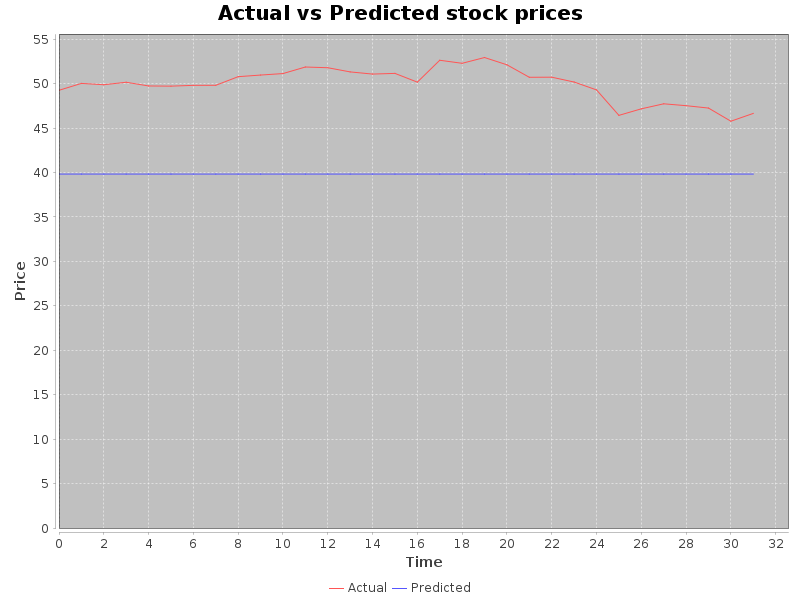
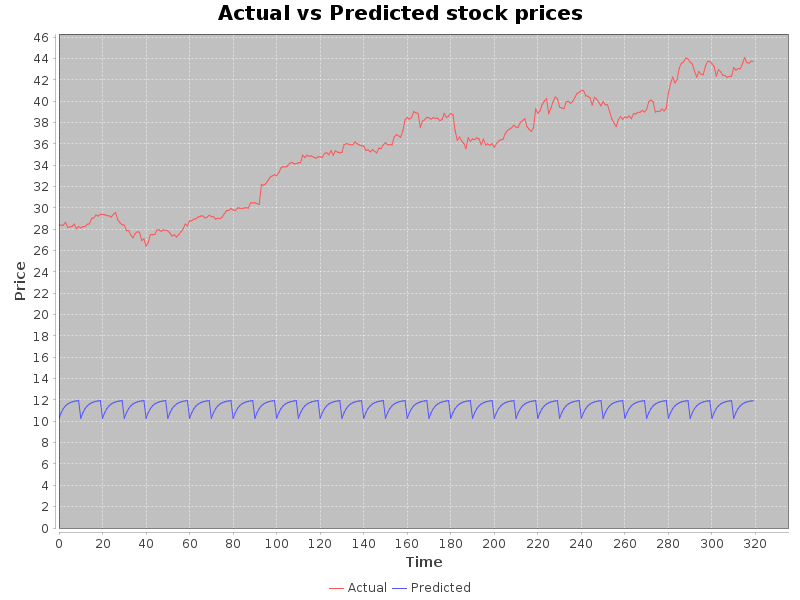
made minor change to dataset structure

diff --git a/src/main/java/com/nighthawk/spring_portfolio/mvc/lstm/LSTMTrainerTester.java b/src/main/java/com/nighthawk/spring_portfolio/mvc/lstm/LSTMTrainerTester.java
@@ -1,25 +1,17 @@
 package com.nighthawk.spring_portfolio.mvc.lstm;
 
 import java.io.BufferedReader;
-import java.io.File;
 import java.io.FileReader;
 import java.io.IOException;
 import java.util.ArrayList;
 
 import org.deeplearning4j.eval.ROC;
 import org.deeplearning4j.nn.multilayer.MultiLayerNetwork;
-import org.deeplearning4j.util.ModelSerializer;
 import org.nd4j.linalg.api.ndarray.INDArray;
 import org.nd4j.linalg.dataset.DataSet;
 import org.nd4j.linalg.dataset.api.iterator.DataSetIterator;
 import org.nd4j.linalg.dataset.api.preprocessor.NormalizerMinMaxScaler;
 import org.nd4j.linalg.factory.Nd4j;
-
-
-import org.jfree.data.category.CategoryDataset;
-import org.jfree.data.category.DefaultCategoryDataset;
-
-import com.nighthawk.spring_portfolio.mvc.lstm.LSTMGraph;
 
 import lombok.AllArgsConstructor;
 import lombok.Data;
@@ -38,7 +30,7 @@ public class LSTMTrainerTester {
     private int features; //5
     private int labels; // 1
     private int batchSize; //32
-    private int stepCount; //1
+    private int stepCount; //10
     private ROC roc;
     private DataSetIterator iterator;
 
@@ -58,19 +50,20 @@ public class LSTMTrainerTester {
         try (BufferedReader br = new BufferedReader(new FileReader(file))) {
             String line = br.readLine();
             System.out.println(line);
-            for (int i = 0; i < 32*100; i++) {
-                line = br.readLine();
-            }
-            for (int i = 0; i < 20; i ++) {
+            for (int i = 0; i < 10; i ++) {
+                System.out.println("Training Dataset " + i);
                 double[][][] featureMatrix = new double[batchSize][this.features][this.stepCount];
                 double[][][] labelsMatrix = new double[batchSize][this.labels][this.stepCount];
                 for (int batch = 0; batch < this.batchSize; batch++) {
-                    line = br.readLine();
-                    String[] values = line.split(",");
-                    featureMatrix[batch][0][0] = Double.parseDouble(values[1]); // OPEN
-                    featureMatrix[batch][1][0] = Double.parseDouble(values[2]); // HIGH
-                    featureMatrix[batch][2][0] = Double.parseDouble(values[3]); // LOW
-                    labelsMatrix[batch][0][0] = Double.parseDouble(values[4]); // CLOSE
+                    for (int series = 0; series < this.stepCount; series++){
+                        line = br.readLine();
+                        String[] values = line.split(",");
+                        featureMatrix[batch][0][series] = Double.parseDouble(values[1]); // OPEN
+                        featureMatrix[batch][1][series] = Double.parseDouble(values[2]); // HIGH
+                        featureMatrix[batch][2][series] = Double.parseDouble(values[3]); // LOW
+                        labelsMatrix[batch][0][series] = Double.parseDouble(values[4]); // CLOSE
+                    }
+                    
                 }
                 INDArray featuresArray = Nd4j.create(featureMatrix);
                 INDArray labelsArray = Nd4j.create(labelsMatrix);
@@ -80,41 +73,47 @@ public class LSTMTrainerTester {
                 net.fit(train);
                 net.rnnClearPreviousState();
             }
-            for (int i = 0; i<1; i++) {
-                double[][][] featureMatrix = new double[batchSize][this.features][this.stepCount];
-                double[][][] labelsMatrix = new double[batchSize][this.labels][this.stepCount];
-                for (int batch = 0; batch < this.batchSize; batch++) {
+            System.out.println("Testing Dataset");
+            double[][][] featureMatrix = new double[batchSize][this.features][this.stepCount];
+            double[][][] labelsMatrix = new double[batchSize][this.labels][this.stepCount];
+            for (int batch = 0; batch < this.batchSize; batch++) {
+                for (int series = 0; series < this.stepCount; series++) {
                     line = br.readLine();
                     String[] values = line.split(",");
-                    featureMatrix[batch][0][0] = Double.parseDouble(values[1]); // OPEN
-                    featureMatrix[batch][1][0] = Double.parseDouble(values[2]); // HIGH
-                    featureMatrix[batch][2][0] = Double.parseDouble(values[3]); // LOW
-                    labelsMatrix[batch][0][0] = Double.parseDouble(values[4]); // CLOSE
-                }
-                INDArray featuresArray = Nd4j.create(featureMatrix);
-                INDArray labelsArray = Nd4j.create(labelsMatrix);
-                DataSet test = new DataSet(featuresArray, labelsArray);
-                minMaxScaler.fit(test);
-                INDArray output = net.output(test.getFeatures());
-                for (int j = 0; j < this.batchSize; j++) {
-                    actual.add(test.getLabels().getDouble(j,0,0));
-                    predicted.add(output.getDouble(j,0,0));
-                }
-                roc.evalTimeSeries(test.getLabels(), output);
+                    featureMatrix[batch][0][series] = Double.parseDouble(values[1]); // OPEN
+                    featureMatrix[batch][1][series] = Double.parseDouble(values[2]); // HIGH
+                    featureMatrix[batch][2][series] = Double.parseDouble(values[3]); // LOW
+                    labelsMatrix[batch][0][series] = Double.parseDouble(values[4]); // CLOSE
+                }   
             }
+            INDArray featuresArray = Nd4j.create(featureMatrix);
+            INDArray labelsArray = Nd4j.create(labelsMatrix);
+            DataSet test = new DataSet(featuresArray, labelsArray);
+            minMaxScaler.fit(test);
+            INDArray output = net.output(test.getFeatures());
+            for (int j = 0; j < this.batchSize; j++) {
+                for (int k = 0; k < this.stepCount; k++) {
+                    actual.add(test.getLabels().getDouble(j,0,k));
+                    predicted.add(output.getDouble(j,0,k));
+                }
+                
+            }
+            roc.evalTimeSeries(test.getLabels(), output);
             System.out.println("Output: ");
             System.out.println(predicted);
             System.out.println("Actual: ");
             System.out.println(actual);
-            
+                
             System.out.println("FINAL TEST AUC: " + roc.calculateAUC());
-            // File locationToSave = new File("src/main/java/com/nighthawk/spring_portfolio/mvc/lstm/resources/StockPriceLSTM_".concat("CLOSE").concat(".zip"));
-            // ModelSerializer.writeModel(net, locationToSave, true);
+            line = br.readLine();
+            System.out.println(line);
+                // File locationToSave = new File("src/main/java/com/nighthawk/spring_portfolio/mvc/lstm/resources/StockPriceLSTM_".concat("CLOSE").concat(".zip"));
+                // ModelSerializer.writeModel(net, locationToSave, true);
             LSTMGraph plotter = new LSTMGraph(actual, predicted);
             System.out.println("Image created");
-            //net = ModelSerializer.restoreMultiLayerNetwork(locationToSave);
+                //net = ModelSerializer.restoreMultiLayerNetwork(locationToSave);
         } catch (IOException e) {
-            e.printStackTrace();
-        }
+        e.printStackTrace();
     }
+}
 }

diff --git a/src/main/java/com/nighthawk/spring_portfolio/mvc/lstm/LSTMMain.java b/src/main/java/com/nighthawk/spring_portfolio/mvc/lstm/LSTMMain.java
@@ -23,7 +23,7 @@ public class LSTMMain {
 
         System.out.println("Create dataSet iterator...");
    
-        LSTMTrainerTester iterator1 = new LSTMTrainerTester(directory, ticker, 3, 1, 32, 1);
+        LSTMTrainerTester iterator1 = new LSTMTrainerTester(directory, ticker, 3, 1, 32, 10);
             
         MultiLayerNetwork net = LSTMNetModel.buildLstmNetworks(iterator1.getFeatures(), iterator1.getLabels());
 
